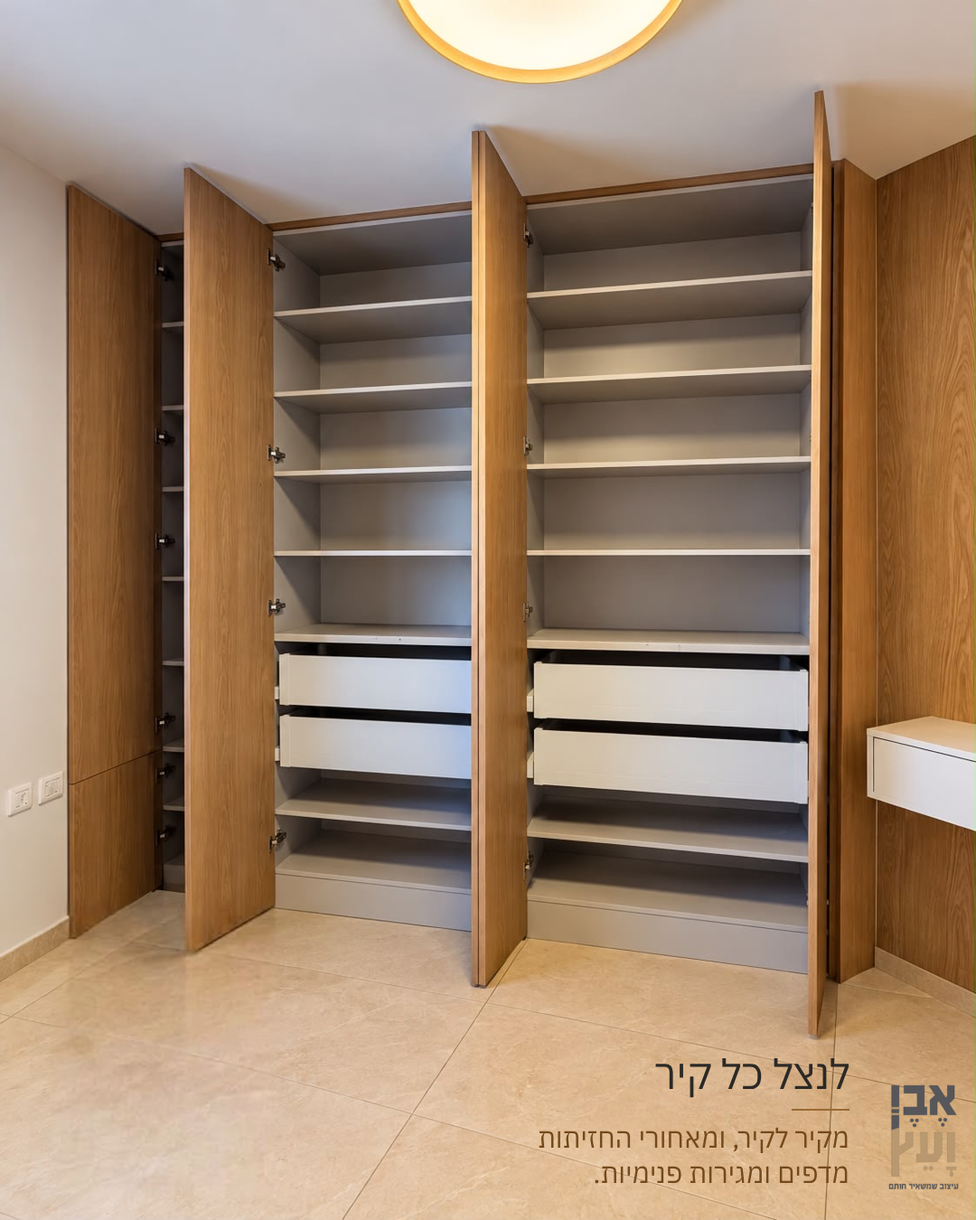
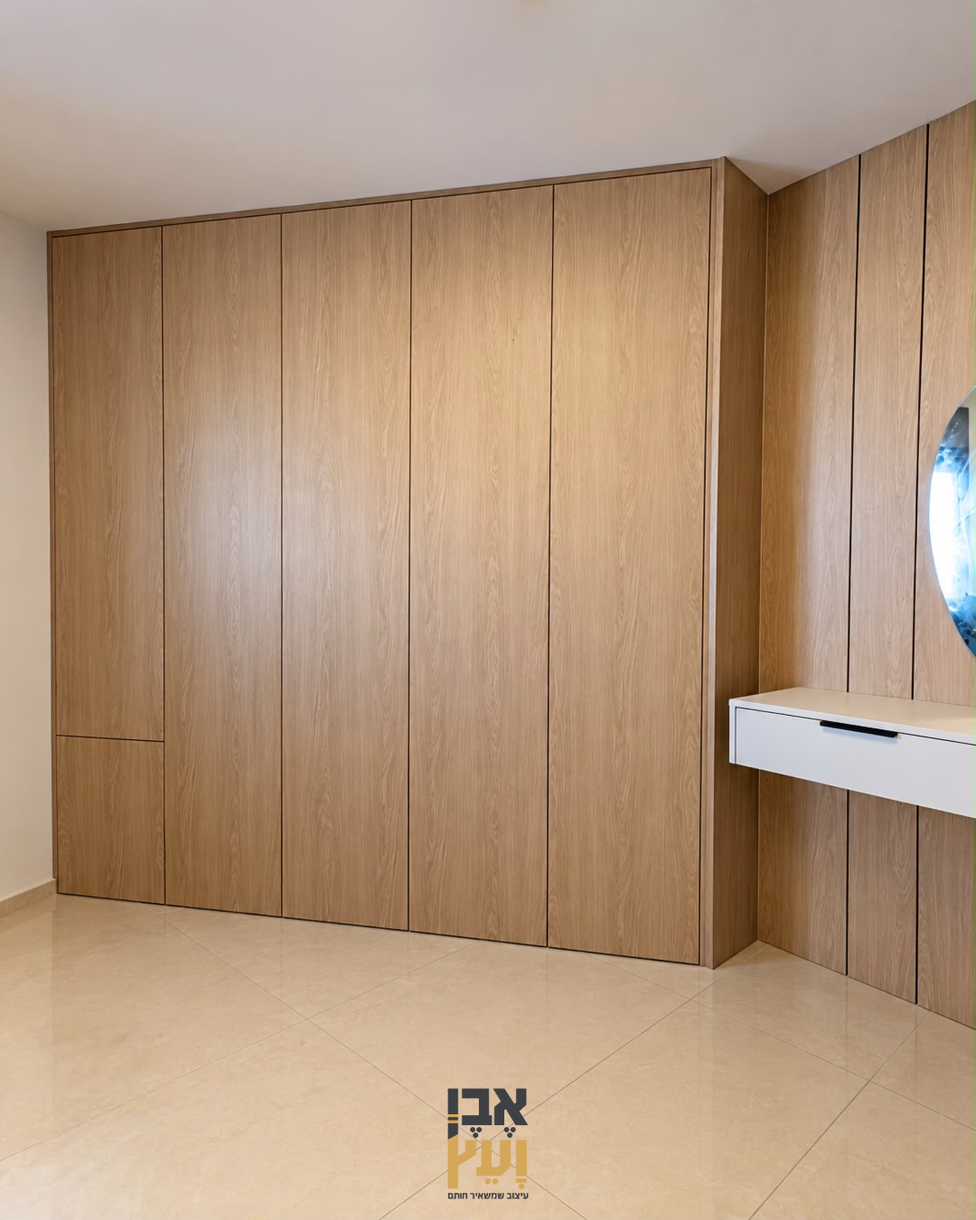
Whole home 2 post v2 (photos only + brown end card, her new format); client-voice: card/scroll transitions (R11), plain copy (C6) — her notes 14.10
Claude-Session: https://claude.ai/code/session_01Hdu6M61qXvEuNML1Ee7HH3

diff --git a/projects/2026-10-whole-home-2/carousel/slides.html b/projects/2026-10-whole-home-2/carousel/slides.html
@@ -2,14 +2,11 @@
 <html lang="he">
 <head>
 <meta charset="UTF-8" />
-<!-- Whole home 2 post (approved 14.10, no crops): "הפוסט הזה מראה שנגרות לכל הבית מתכננים לפי עקרונות, לא ארון אחרי
-     ארון, ושאנחנו יודעים לתכנן כך בית שלם." Archetypes: palette (material board of the real fronts) + quiet guide by
-     principle; style ג type (Plex Regular, ink + caramel, small, aligned to the work), logo small at the bottom of every
-     photo (P11א), closing slide v2. SKELETON NOTE: Before designing write: "הפוסט הזה מראה ש..." (incl. a business value) and pick the archetype
-     (agents/post-designer.md; not one of the last two in content-log). Slide count is dynamic: min 3 work photos + a
-     closing logo slide = the reel's end card in 4:5 (P11). Photos: graded PNG (grade.py). Every work appears whole;
-     crop only to highlight a detail the headline talks about (niche, light, special solution), straight and centred (P4).
-     No bands/boxes/darkening; a slide without text = zero layers. Render: bash studio/tools/render_post.sh carousel/slides.html <N> -->
+<!-- Whole home 2, post v2 (her new format 14.10): 7 photos (TV wall, mauve, oak closed/open, white closed/open, grey) + brown end card. SKELETON NOTE: Post format v10 (her decision 14.10, client-voice P16): PHOTOS ONLY. No headline, no idea, no text
+     on the photos. Each slide = one prepared photo (straightened, surroundings cleaned, upscaled only if low-res, natural
+     colours untouched) + the small company logo at the bottom, SAME position and size on every slide. Pick: the photos
+     that show the whole project best + the close-up of the project's "wow" detail (e.g. the lit niche). Last slide =
+     the brown brand end card (#sEnd, do not change). Render: bash studio/tools/render_post.sh carousel/slides.html <N> -->
 <style>
 @font-face{font-family:"Plex";src:url(plex-Light.ttf);font-weight:300}
 @font-face{font-family:"Plex";src:url(plex-Regular.ttf);font-weight:400}
@@ -20,98 +17,59 @@
 body{width:1080px}
 .slide{width:1080px;height:1350px;position:relative;overflow:hidden;background:var(--dark)}
 .full{position:absolute;inset:0;width:1080px;height:1350px;object-fit:cover}
-/* keep headline, logo and focus inside the central 1012px (profile grid crops 3:4) */
-/* LOUD family (set 1): bold two lines, white + gold on a calm dark area */
-.loud{position:absolute;direction:rtl;text-align:right;font:600 96px/1.04 "Plex";letter-spacing:-.015em;color:#fff}
-.loud em{display:block;font-style:normal;color:var(--gold)}
-/* QUIET family (set 2): thin dark topic + insight after a thin L bracket, on a calm light surface */
-.quiet{position:absolute;direction:rtl;text-align:right;color:#2a2420}
-.quiet h2{font:300 76px/1.05 "Plex"}
-.quiet p{margin-top:16px;padding:10px 22px 0 0;font:400 36px/1.3 "Plex";border-right:2px solid var(--bronze);border-top:2px solid var(--bronze);max-width:640px}
-/* quiet label (portfolio style) */
-.lab{position:absolute;direction:rtl;display:flex;align-items:center;gap:18px;font:600 31px/1.2 "Plex";color:#2b211a}
-.lab i{display:block;width:46px;height:2px;background:var(--bronze)}
-.lab b{font-weight:600;color:#8a5a26}
-.logo{position:absolute;width:150px}
-/* closing slide v2 (P11, her request 13.10: "מעוצב יותר מרשים מקצועי ואלגנטי") — the brand standard for EVERY post:
-   dark wall of three real oak fronts (studio/brand/end_oak_wall.png, from her work), soft light washing down onto the logo
-   (the brand's lit-carpentry signature), hairline gold frame, Plex Light line + small gold sub-line. No split, no collage.
-   Change only the .line text per post (one short brand sentence); keep everything else. */
-@font-face{font-family:"PlexL";src:url(plex-Light.ttf);font-weight:300}
-.end{background:#140d08 url(end_oak_wall.png) center/cover}
-.end .wash{position:absolute;inset:0;background:radial-gradient(34% 46% at 50% 26%,rgba(255,200,130,.34) 0%,rgba(230,170,100,.16) 45%,rgba(0,0,0,0) 75%);mix-blend-mode:screen}
-.end .vig{position:absolute;inset:0;background:radial-gradient(90% 75% at 50% 42%,rgba(0,0,0,0) 45%,rgba(10,6,3,.55) 100%)}
-.end .frame{position:absolute;inset:38px;border:1px solid rgba(216,184,120,.38)}
-.end .in{position:absolute;left:0;right:0;top:0;bottom:70px;display:flex;flex-direction:column;align-items:center;justify-content:center}
-.end .lg{width:318px;filter:drop-shadow(0 10px 28px rgba(0,0,0,.45))}
-.end .rule{width:72px;height:1px;background:#d8b878;margin-top:58px}
-.end .line{direction:rtl;margin-top:34px;font:300 46px/1.2 "PlexL";color:#f1e7da;letter-spacing:.04em}
-.end .sub{position:absolute;left:0;right:0;bottom:92px;direction:rtl;text-align:center;font:400 24px/1 "Plex";color:#c9a46a;letter-spacing:.18em}
-
-:root{--ink:#2b2926;--car:#9a6a32;--gold-l:#d8b878}
-.h{position:absolute;direction:rtl;text-align:right;font:400 60px/1.18 "Plex";color:var(--ink)}
-.h span{display:block;color:var(--car)}
-.h i{display:block;width:84px;height:2px;background:var(--car);margin:20px 0 0 auto}
-.k{position:absolute;direction:rtl;text-align:right;color:var(--ink)}
-.k b{display:block;font:400 46px/1.12 "Plex"}
-.k i{display:block;width:64px;height:2px;background:var(--car);margin:12px 0 10px auto}
-.k span{display:block;font:400 30px/1.32 "Plex";color:#74491b}
-.lg{position:absolute;right:16px;bottom:30px;width:84px}
-.pal{background:#e9e1d6}
-.pal .sw{position:absolute;top:400px;height:720px;width:162px;background-size:cover;background-position:center;box-shadow:0 18px 40px rgba(60,40,20,.18)}
-.pal .cap{position:absolute;top:1142px;width:162px;direction:rtl;text-align:center;font:400 23px/1.3 "Plex";color:#5a4c3e}
+/* the only element on a photo slide: the logo, small, bottom, identical on all slides of the post (P11א/P16).
+   Default bottom-centre; if that spot sits on an important detail in any of the photos, use .mark.r or .mark.l
+   for the WHOLE post (inside the central 1012px: the profile grid crops 34px per side). */
+.mark{position:absolute;width:92px;left:494px;bottom:22px}
+.mark.r{left:auto;right:72px}
+.mark.l{left:72px}
+/* closing slide v3 = the brown brand end card (her standard 14.10: "מעכשיו זה יהיה הסיומת של הרילס והפוסטים").
+   Fixed for every post and identical to the reel's #end. Reference: studio/brand/endcard_post_1080x1350.png */
+.end{background:#7a5a43}
+.end .cr{position:absolute;width:76px;height:76px;border:0 solid var(--gold)}
+.end .tr{top:64px;right:64px;border-top-width:3px;border-right-width:3px}
+.end .bl{bottom:64px;left:64px;border-bottom-width:3px;border-left-width:3px}
+.end .in{position:absolute;inset:0;display:flex;flex-direction:column;align-items:center;justify-content:center;direction:rtl}
+.end .lg{width:320px}
+.end .h{margin-top:96px;font:300 92px/1.18 "Plex";color:#f3ede4;text-align:center}
+.end .h em{display:block;font-style:normal;color:var(--gold)}
+.end .s{margin-top:64px;font:300 44px/1 "Plex";color:#efe6da}
 </style>
 </head>
 <body>
+<!-- one <section> per chosen photo. Logo variant per photo for contrast (logo_alpha.png on light, logo_light.png on dark),
+     but the .mark position/size never changes inside a post. -->
 <section class="slide" id="s1">
-  <img class="full" src="p_oak_c.png" alt="" />
-  <div class="h" style="right:140px;bottom:46px;font-size:60px">נגרות לכל הבית?<span>ככה מתכננים נכון.</span><i style="margin-top:14px"></i></div>
-  <img class="lg" src="logo_alpha.png" alt="אבן ועץ" />
+  <img class="full" src="p1.png" alt="" />
+  <img class="mark" src="logo_alpha.png" alt="אבן ועץ" />
 </section>
-<section class="slide pal" id="s2">
-  <div class="h" style="right:96px;top:96px;font-size:58px">גוונים שמדברים<span>זה עם זה.</span><i></i></div>
-  <div class="k" style="right:96px;top:292px"><span style="color:#5a4c3e;font-size:30px">כל חדר בגוון משלו, ויחד זה בית אחד.</span></div>
-  <div class="sw" style="right:96px;background:#ac9291"></div><div class="cap" style="right:96px">הארון הסגול</div>
-  <div class="sw" style="right:278px;background:#c7aa92"></div><div class="cap" style="right:278px">ארון העץ</div>
-  <div class="sw" style="right:460px;background:#cbc5c3"></div><div class="cap" style="right:460px">הארון הלבן</div>
-  <div class="sw" style="right:642px;background:#b4aaa1"></div><div class="cap" style="right:642px">הארון האפור</div>
-  <div class="sw" style="right:824px;background:#aa8456"><div style="position:absolute;left:0;right:0;bottom:0;height:34%;background:#59483a"></div></div><div class="cap" style="right:824px">קיר הטלוויזיה</div>
-  <img class="lg" src="logo_alpha.png" alt="אבן ועץ" />
+<section class="slide" id="s2">
+  <img class="full" src="p2.png" alt="" />
+  <img class="mark" src="logo_alpha.png" alt="אבן ועץ" />
 </section>
 <section class="slide" id="s3">
-  <img class="full" src="p_oak_o.png" alt="" />
-  <div class="k" style="right:140px;bottom:32px"><b>לנצל כל קיר</b><i></i><span>מקיר לקיר, ומאחורי החזיתות<br />מדפים ומגירות פנימיות.</span></div>
-  <img class="lg" src="logo_alpha.png" alt="אבן ועץ" />
+  <img class="full" src="p3.png" alt="" />
+  <img class="mark" src="logo_alpha.png" alt="אבן ועץ" />
 </section>
 <section class="slide" id="s4">
-  <img class="full" src="p_white_o.png" alt="" />
-  <div class="k" style="right:140px;bottom:32px"><b>לפי מה ששומרים בפנים</b><i></i><span>מוט תלייה שיורד מהגובה אל היד.</span></div>
-  <img class="lg" src="logo_alpha.png" alt="אבן ועץ" />
+  <img class="full" src="p4.png" alt="" />
+  <img class="mark" src="logo_alpha.png" alt="אבן ועץ" />
 </section>
 <section class="slide" id="s5">
-  <img class="full" src="p_white_c.png" alt="" />
-  <div class="k" style="right:140px;bottom:32px"><b>גם הפינה עובדת</b><i></i><span>מדפים מעוגלים שממשיכים את הארון.</span></div>
-  <img class="lg" src="logo_alpha.png" alt="אבן ועץ" />
+  <img class="full" src="p5.png" alt="" />
+  <img class="mark" src="logo_alpha.png" alt="אבן ועץ" />
 </section>
 <section class="slide" id="s6">
-  <img class="full" src="p_mauve.png" alt="" />
-  <div class="k" style="right:140px;bottom:32px"><b>להשאיר מקום להציג</b><i></i><span>עמודת מדפים פתוחה בין הדלתות.</span></div>
-  <img class="lg" src="logo_alpha.png" alt="אבן ועץ" />
+  <img class="full" src="p6.png" alt="" />
+  <img class="mark" src="logo_alpha.png" alt="אבן ועץ" />
 </section>
 <section class="slide" id="s7">
-  <img class="full" src="p_grey.png" alt="" />
-  <div class="k" style="right:140px;bottom:32px"><b>פרט אחד שעושה את הארון</b><i></i><span>ידית עגולה אחת לשתי דלתות.</span></div>
-  <img class="lg" src="logo_alpha.png" alt="אבן ועץ" />
-</section>
-<section class="slide" id="s8">
-  <img class="full" src="p_tv.png" alt="" />
-  <div class="k" style="right:140px;bottom:32px"><b>לתכנן את האור מראש</b><i></i><span>מדפים מוארים ומזנון צף, כחלק מהקיר.</span></div>
-  <img class="lg" src="logo_alpha.png" alt="אבן ועץ" />
+  <img class="full" src="p7.png" alt="" />
+  <img class="mark" src="logo_alpha.png" alt="אבן ועץ" />
 </section>
 <section class="slide end" id="sEnd">
-  <div class="wash"></div><div class="vig"></div><div class="frame"></div>
-  <div class="in"><img class="lg2" src="logo_light.png" alt="אבן ועץ" style="width:318px;filter:drop-shadow(0 10px 28px rgba(0,0,0,.45))" /><div class="rule"></div><div class="line">תכנון אישי לכל הבית</div></div>
-  <div class="sub">נגרות בהתאמה אישית</div>
+  <i class="cr tr"></i><i class="cr bl"></i>
+  <div class="in"><img class="lg" src="logo_light.png" alt="אבן ועץ" /><div class="h">כל הבית,<em>במקום אחד.</em></div><div class="s">ייעוץ והדמיה ללא עלות</div></div>
 </section>
 </body>
 </html>

diff --git a/projects/2026-10-whole-home-2/flow/post_prep.py b/projects/2026-10-whole-home-2/flow/post_prep.py
@@ -1,23 +1,21 @@
-"""Post photos at 1080x1350 from the sharpest copy (work/hq AI x2, else work/clean), area-downscaled (no sharpening).
-No grade.py: on this exact set grade.py shifted the fronts' colour (whole-home P15, ΔE 3.4-5.6) -> source colours.
-Also the palette slide's material samples: straight crops of each real front (no handles/seams)."""
-import cv2, os, subprocess, numpy as np
+"""Post v2 (her format 14.10, P16-P17): photos only. Each photo prepared: old logo stamp removed (flow/clean_logo.py),
+AI x2 (all were < 1350 px short side, photo_check UPSCALE; mean Lab shift < 0.25), ceiling lamp removed from the two oak
+photos (flow/clean_lamp.py, ceiling only), mauve sides extended with plain wall/floor (flow/extend_mauve.py).
+TV wall NOT straightened: photo_check's angle came from 3 lines and rotating made the cladding lean (checked by eye).
+No grade.py (it shifted the fronts' colour on this set, P15). Area-downscale to 1080x1350, no sharpening."""
+import cv2, os, subprocess
 C = "carousel/"
-def src(n): return cv2.imread(f"work/hq/{n}.png") if os.path.exists(f"work/hq/{n}.png") else cv2.imread(f"work/clean/{n}.png")
-names = {"oak_c": "03_oak_closet_closed", "oak_o": "05_oak_closet_open", "white_o": "04_white_closet_open",
-         "white_c": "07_white_closet_closed", "grey": "06_grey_closet", "tv": "01_tv_wall_lit"}
-for k, n in names.items():
-    cv2.imwrite(C + f"p_{k}.png", cv2.resize(src(n), (1080, 1350), interpolation=cv2.INTER_AREA))
-m = src("02_mauve_closet"); cv2.imwrite("work/mauve_src.png", m)
-subprocess.run(["python3", "-I", "flow/extend_mauve.py", "work/mauve_src.png", "work/mauve_ext.png"], check=True)
-cv2.imwrite(C + "p_mauve.png", cv2.resize(cv2.imread("work/mauve_ext.png"), (1080, 1350), interpolation=cv2.INTER_AREA))
-# material samples (x0, y0, x1, y1 in 1122-unit photo coords; mauve in its 949 crop): plain front surfaces only
-S = {"mauve": ("02_mauve_closet", 70, 100, 380, 1200), "oak": ("03_oak_closet_closed", 340, 330, 455, 800),
-     "white": ("07_white_closet_closed", 760, 180, 960, 1000), "grey": ("06_grey_closet", 330, 150, 540, 600),
-     "tvwood": ("01_tv_wall_lit", 360, 140, 600, 420), "tvdark": ("01_tv_wall_lit", 130, 1010, 330, 1150)}
-for k, (n, x0, y0, x1, y1) in S.items():
-    im = src(n); f = im.shape[0] / 1402
-    # her note 14.10 "no crops": the palette shows each front's real colour as a flat swatch (median of a plain area)
-    med = np.median(im[int(y0 * f):int(y1 * f), int(x0 * f):int(x1 * f)].reshape(-1, 3), 0).astype(int)
-    print(k, "#%02x%02x%02x" % (med[2], med[1], med[0]))
+def get(n):
+    for d in ("work/prep", "work/hq"):
+        if os.path.exists(f"{d}/{n}.png"): return cv2.imread(f"{d}/{n}.png")
+order = ["01_tv_wall_lit", "02_mauve_closet", "03_oak_closet_closed", "05_oak_closet_open",
+         "07_white_closet_closed", "04_white_closet_open", "06_grey_closet"]
+for i, n in enumerate(order, 1):
+    if n == "02_mauve_closet":
+        cv2.imwrite("work/mauve_src.png", get(n))
+        subprocess.run(["python3", "-I", "flow/extend_mauve.py", "work/mauve_src.png", "work/prep/02_mauve_ext.png"], check=True)
+        im = cv2.imread("work/prep/02_mauve_ext.png")
+    else:
+        im = get(n)
+    cv2.imwrite(C + f"p{i}.png", cv2.resize(im, (1080, 1350), interpolation=cv2.INTER_AREA))
 print("post photos ok")

diff --git a/projects/2026-10-whole-home-2/flow/clean_lamp.py b/projects/2026-10-whole-home-2/flow/clean_lamp.py
@@ -1,0 +1,38 @@
+"""Remove the round ceiling lamp (not carpentry; her note R13) from the oak photos: the plain ceiling is rebuilt
+from the clean ceiling around it (smooth 2D fit), the wardrobe is never touched. Ported from projects/2026-10-whole-home/flow/clean_lamp.py to the AI x2 copies here: every measured pixel
+value scales by S = 1.217 (her new 1122 frame) x 2 (AI x2). Writes work/prep/<name>.png (P17: only the carpentry)."""
+import cv2, numpy as np
+S = 1.217 * 2
+K = lambda n: int(round(n * S)) | 1   # odd kernel sizes
+def clean(src, box, out, ell):
+    im = cv2.imread(src).astype(np.float32); H, W = im.shape[:2]
+    x0, y0, x1, y1 = [int(v * S) for v in box]
+    g = cv2.cvtColor(im.astype(np.uint8), cv2.COLOR_BGR2GRAY).astype(np.float32)
+    m = np.zeros((H, W), np.uint8); m[y0:y1, x0:x1] = 255
+    # the lamp + its glow: brighter / more saturated than the ceiling around
+    hsv = cv2.cvtColor(im.astype(np.uint8), cv2.COLOR_BGR2HSV).astype(np.float32)
+    lamp = np.zeros((H, W), np.uint8)
+    cv2.ellipse(lamp, tuple(int(v * S) for v in ell[0]), tuple(int(v * S) for v in ell[1]), 0, 0, 360, 255, -1)          # the lamp + its glow, measured
+    wood = ((hsv[..., 0] < 25) & (hsv[..., 1] > 55) & (hsv[..., 2] < 235)).astype(np.uint8) * 255
+    wood = cv2.morphologyEx(wood, cv2.MORPH_OPEN, np.ones((3, 3), np.uint8))
+    n, lab, st, _ = cv2.connectedComponentsWithStats(wood)            # carpentry = wood regions that reach down
+    keep = [i for i in range(1, n) if st[i, 1] + st[i, 3] > 200 * S]      # (the lamp's gold rim stays near the ceiling)
+    wood = np.isin(lab, keep).astype(np.uint8) * 255
+    wood = cv2.dilate(wood, np.ones((K(7), K(7)), np.uint8))
+    lamp = lamp & ~wood & m                                           # never touch the carpentry
+    # fit a smooth quadratic surface per channel on the clean ceiling ring around the lamp
+    ring = cv2.dilate(lamp, np.ones((K(61), K(61)), np.uint8)) & ~lamp & m
+    ys, xs = np.nonzero(ring)
+    A = np.stack([np.ones_like(xs), xs, ys, xs * xs, xs * ys, ys * ys], 1).astype(np.float64)
+    yy, xx = np.nonzero(lamp)
+    B = np.stack([np.ones_like(xx), xx, yy, xx * xx, xx * yy, yy * yy], 1).astype(np.float64)
+    # inpaint from the clean ceiling edge inward, then smooth inside (the ceiling is a soft gradient)
+    res = cv2.inpaint(im.astype(np.uint8), cv2.dilate(lamp, np.ones((K(5), K(5)), np.uint8)), int(25 * S), cv2.INPAINT_TELEA).astype(np.float32)
+    res = cv2.GaussianBlur(res, (0, 0), 14 * S)
+    # feathered blend + matching grain
+    a = (cv2.GaussianBlur(lamp.astype(np.float32) / 255, (0, 0), 9 * S) * (wood == 0))[..., None]
+    rng = np.random.default_rng(7); res += rng.normal(0, 1.2, res.shape)
+    out_im = im * (1 - a) + res * a
+    cv2.imwrite(out, np.clip(out_im, 0, 255).astype(np.uint8))
+clean("work/hq/03_oak_closet_closed.png", (170, 0, 560, 160), "work/prep/03_oak_closet_closed.png", ((350, 2), (150, 78)))
+clean("work/hq/05_oak_closet_open.png", (300, 0, 720, 175), "work/prep/05_oak_closet_open.png", ((510, 8), (190, 112)))

diff --git a/knowledge/learning/client-voice.md b/knowledge/learning/client-voice.md
@@ -73,6 +73,7 @@
 - חסר מידע לכיתוב (חומרים, פתרונות, משך)? שואלים בכרטיס ההצעה.
 - עוגן: "הייתי מצפה לקצב יותר מהיר, ליותר כיתוב... יותר חיתוכים" (11.10).
 - **פרטים = תנועת מצלמה בפריים מלא, לא "חלונות" (13.10).** פרץ של תמונות מוקטנות לריבועים שעוברות אחת אחרי השנייה נפסל: המעברים לא זורמים, והחיתוכים נראים "סתם מה שיצא יצא". מראים פרט דרך המצלמה עצמה: דחיפה אל הפרט, **ירידה (Tilt down) לאורך מדפים מוארים** כמו שאהבה בארון סהרה, גלישה לאורך קו. כל מסגור נבחר בכוונה (פרט שלם, קווים ישרים). חל על כל רילס עם מעט צילומים. עוגן: "יש שם קטע שיש תמונות מוקטנות לריבועים... לא אהבתי את המעברים... ולא אהבתי את החיתוכים... אהבתי מהסרטון בפרויקט הקודם... תנועת מצלמה כזאת שיורדת".
+- **מעבר בין עבודות שונות (כמה ארונות/חדרים) יכול להיראות כמו כרטיסים אמיתיים או גלילה (14.10).** כל תמונה היא "כרטיס" שלם, גדול (רוב רוחב המסך), עם פינות מעוגלות וצל, שמוחלק הצידה כמו החלקה בטלפון, או רצף שנגלל כמו פיד. זה מעבר מכוון ומוחשי, לא "ריבועים מוקטנים" (שנפסלו כי היו קטנים, מקריים ולא זורמים). התנאים: הכרטיס מציג את העבודה שלמה, התנועה רציפה ועל הביט, ופרט עדיין מראים בתנועת מצלמה במסך מלא. חל על רילס עם כמה עבודות (בית שלם, תוכן כללי). עוגן: "אולי תמצא רעיון מעניין קצת להעביר בין התמונות של הארונות שיראה כמו כרטיס באמת או משהו של גלילה" (14.10).
 
 **R12. רגע האור מראה את הדבר המואר הכי מרשים, במלואו.**
 - בוחרים לפי איפה האור חושף הכי הרבה נגרות: ספרייה, מדפים, נישות, ויטרינות, ולא פס אור על משטח. מראים אותו שלם ומחזיקים עליו 2+ שניות. היא מצפה שנזהה את זה לבד.
@@ -194,6 +195,7 @@
 - **C5. הטקסט הוא רעיון שלנו, לא תיאור של הבריף.** היא כותבת משפט אחד, ואנחנו אמורים לחשוב: תובנה עמוקה יותר על מה שהעבודה עושה לחיים של מי שגר בבית (סוף יום, שקט, סדר, מה בוחרים להראות), בקול של מותג יוקרה שקט: מוכרים את התחושה ולא את המפרט, אומרים פחות, מזמינים ולא דוחפים (מחקר: `docs/research/2026-10-copy-style.md`). חל על כרטיסי הרילס, כותרות הפוסט וכל הכיתובים. מבחן: אם המשפט מתאים רק כתיאור של התמונה, או משכפל את מילות הבריף, הוא נפסל. עדיין: אמת (T1), ומילים שמוכרות את החברה (R10).
   - **חושבים כמו מומחה שיווק לנגרות:** הטקסט נשען על מה שבאמת גורם לאדם לפנות לנגר: התאמה מדויקת לקיר ולמידות, ניצול כל החלל (עד התקרה, הגובה), תכנון הפנים, דיוק. מטפורות כלליות של אווירה ("שקט", "בלי רעש") פחות עובדות אצלה. עוגן: "פחות אהבתי את השקט ורעש... אתה אמור לחשוב על רעיונות כמומחה בתחום השיווק של הנגרות" (13.10). מה שאהבה באותו סבב: "רוב הארונות / רק מסתירים." ← "זה / גם מציג." (ניגוד חד על מה שהנגרות עושה) ו"רק אור / במקום הנכון."
   - עוגן: "תחשוב על משהו עמוק יותר ומשהו מעצמך ולא להיצמד מילה במילה למה שאני כתבתי. אני כותבת רק משפט ואתה אמור לחשוב על רעיונות" (13.10).
+- **C6. כיתובים פשוטים וברורים, כמו מומחה שיווק, בלי להתחכם (14.10).** משפטים ישירים שאומרים מה עשינו, מה מיוחד בזה ולמה לפנות: סוג העבודה, הפתרון שרואים, ייעוץ והדמיה, וואטסאפ. בלי משחקי מילים, מטאפורות ("שפה אחת", "מדברים זה עם זה"), סיסמאות או רשימות "טיפים" מאולצות. חל על הכיתובים באינסטגרם ובפייסבוק ועל כרטיסי הרילס. בכרטיס ההצעה מגישים את הכיתובים המלאים לאישור. עוגן: "לא אהבתי את הניסוחים בכלל. תחשוב כמו מומחה שיווק לא לנסות להתחכם מידי" (14.10).
 - **C3. בלי קלישאות שיווקיות** ("איכות ללא פשרות", "הגשמת חלומות", "הארון המושלם עבורכם"). מעדיפים משפט ספציפי לעבודה.
 - **C4. הכיוון שהיא אוהבת:** ניגוד קצר בין מה שרואים למה שמתוכנן. דוגמאות: "יפה מבחוץ. מתוכנן מבפנים." / "רואים עיצוב. מגלים אחסון." (מבנה, לא להעתיק).
 
